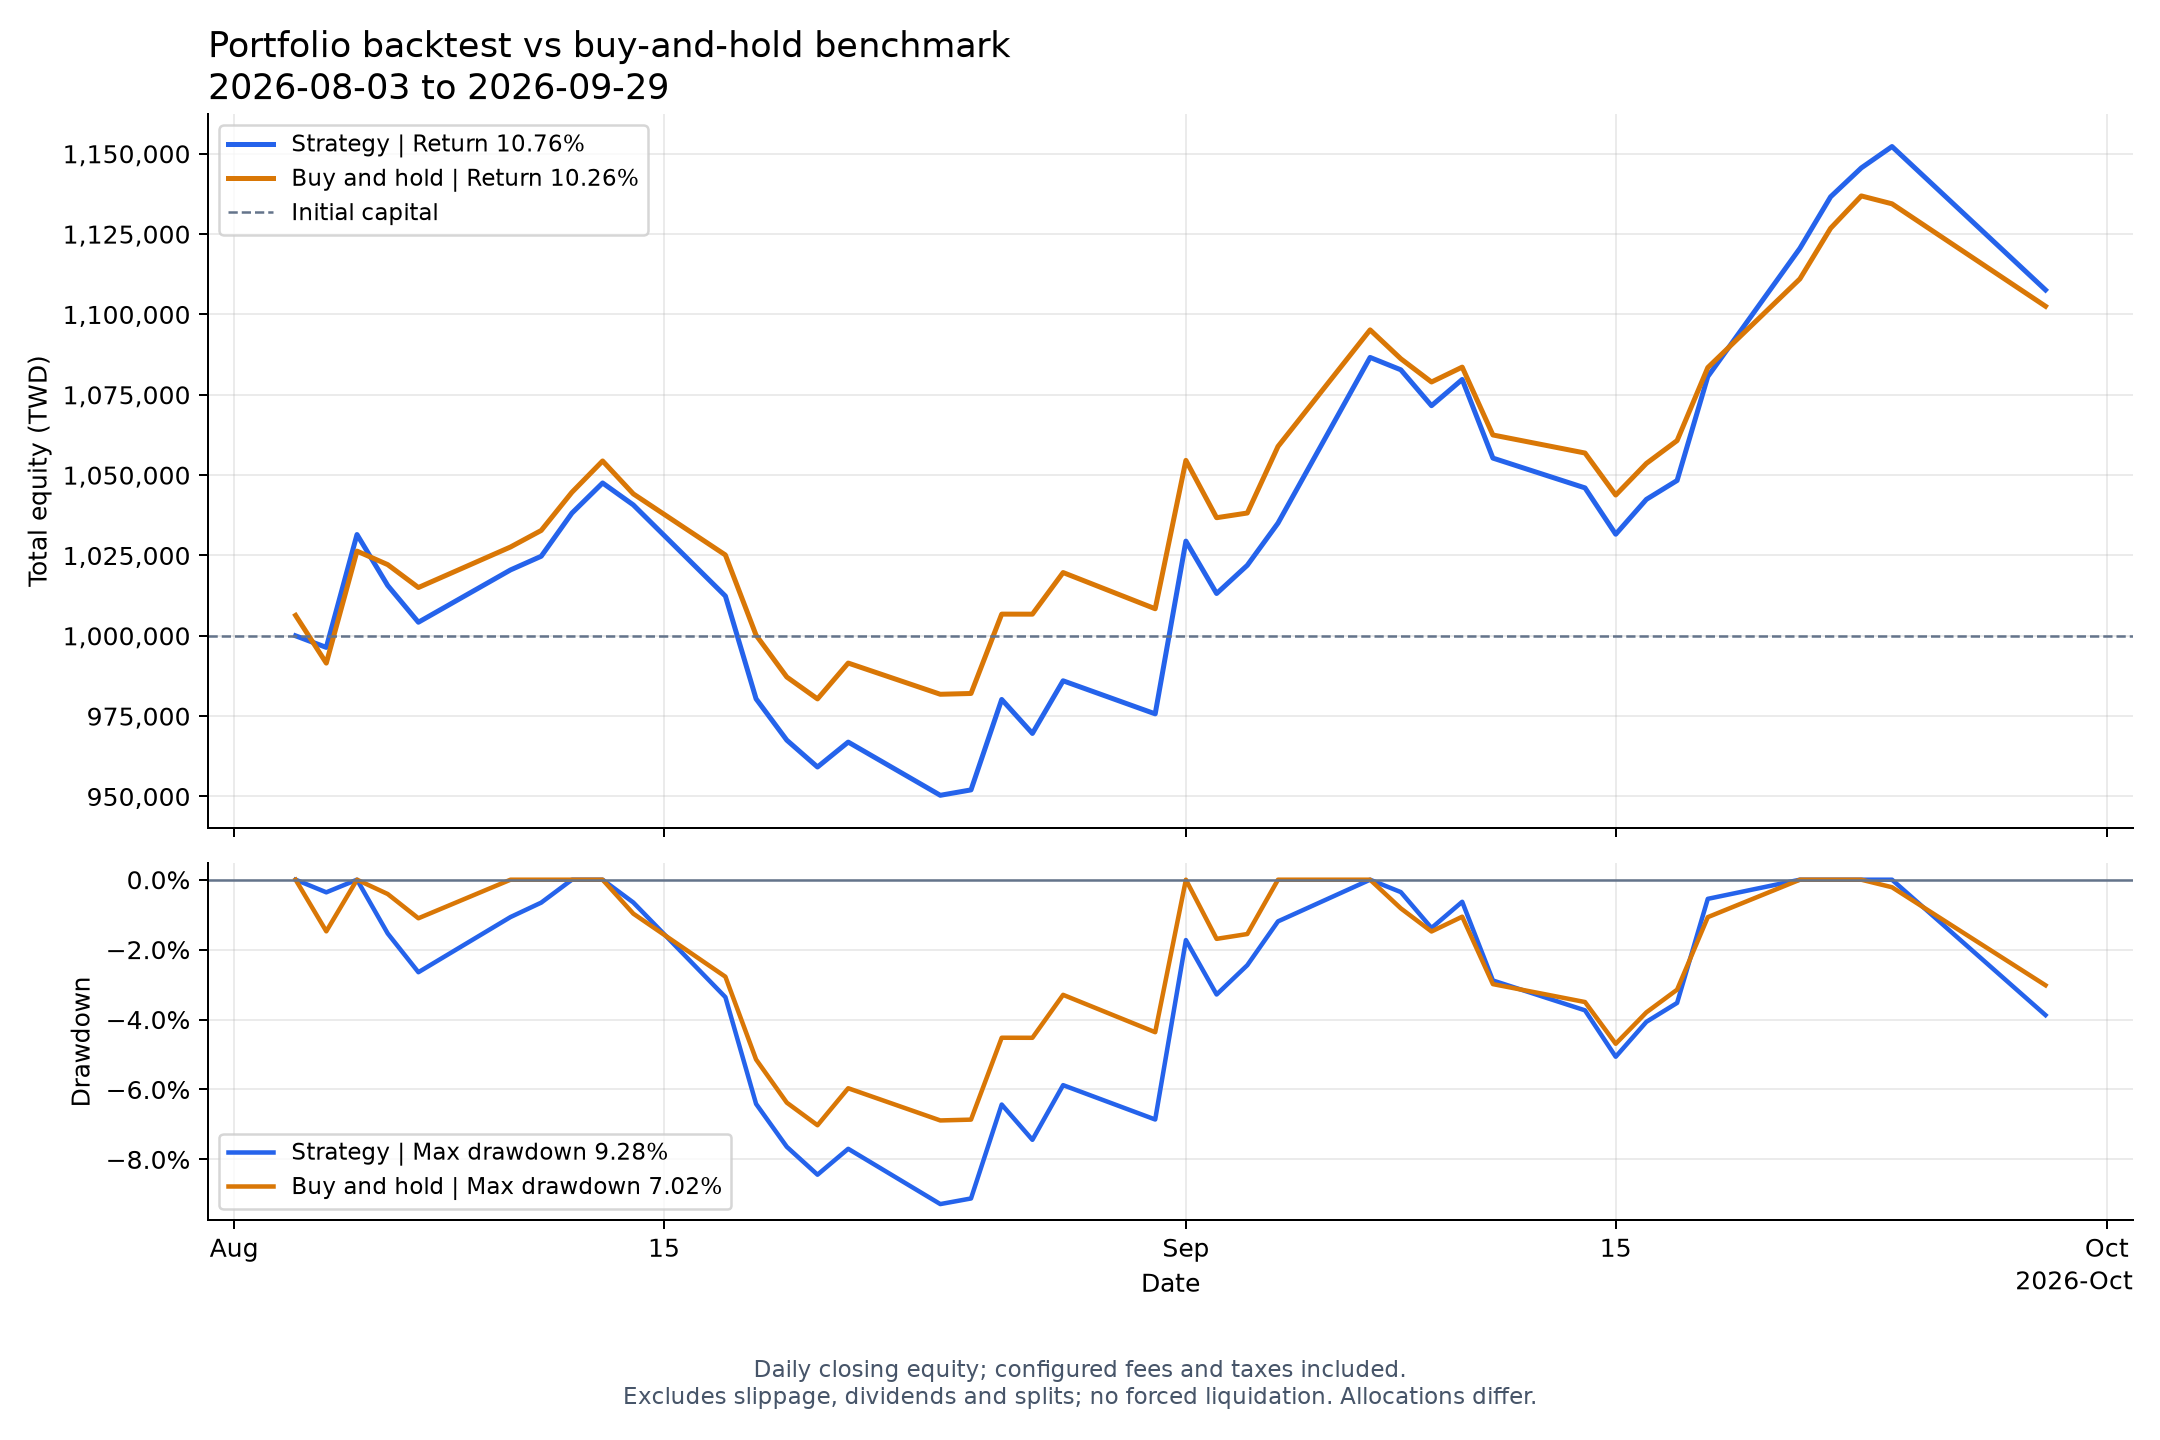
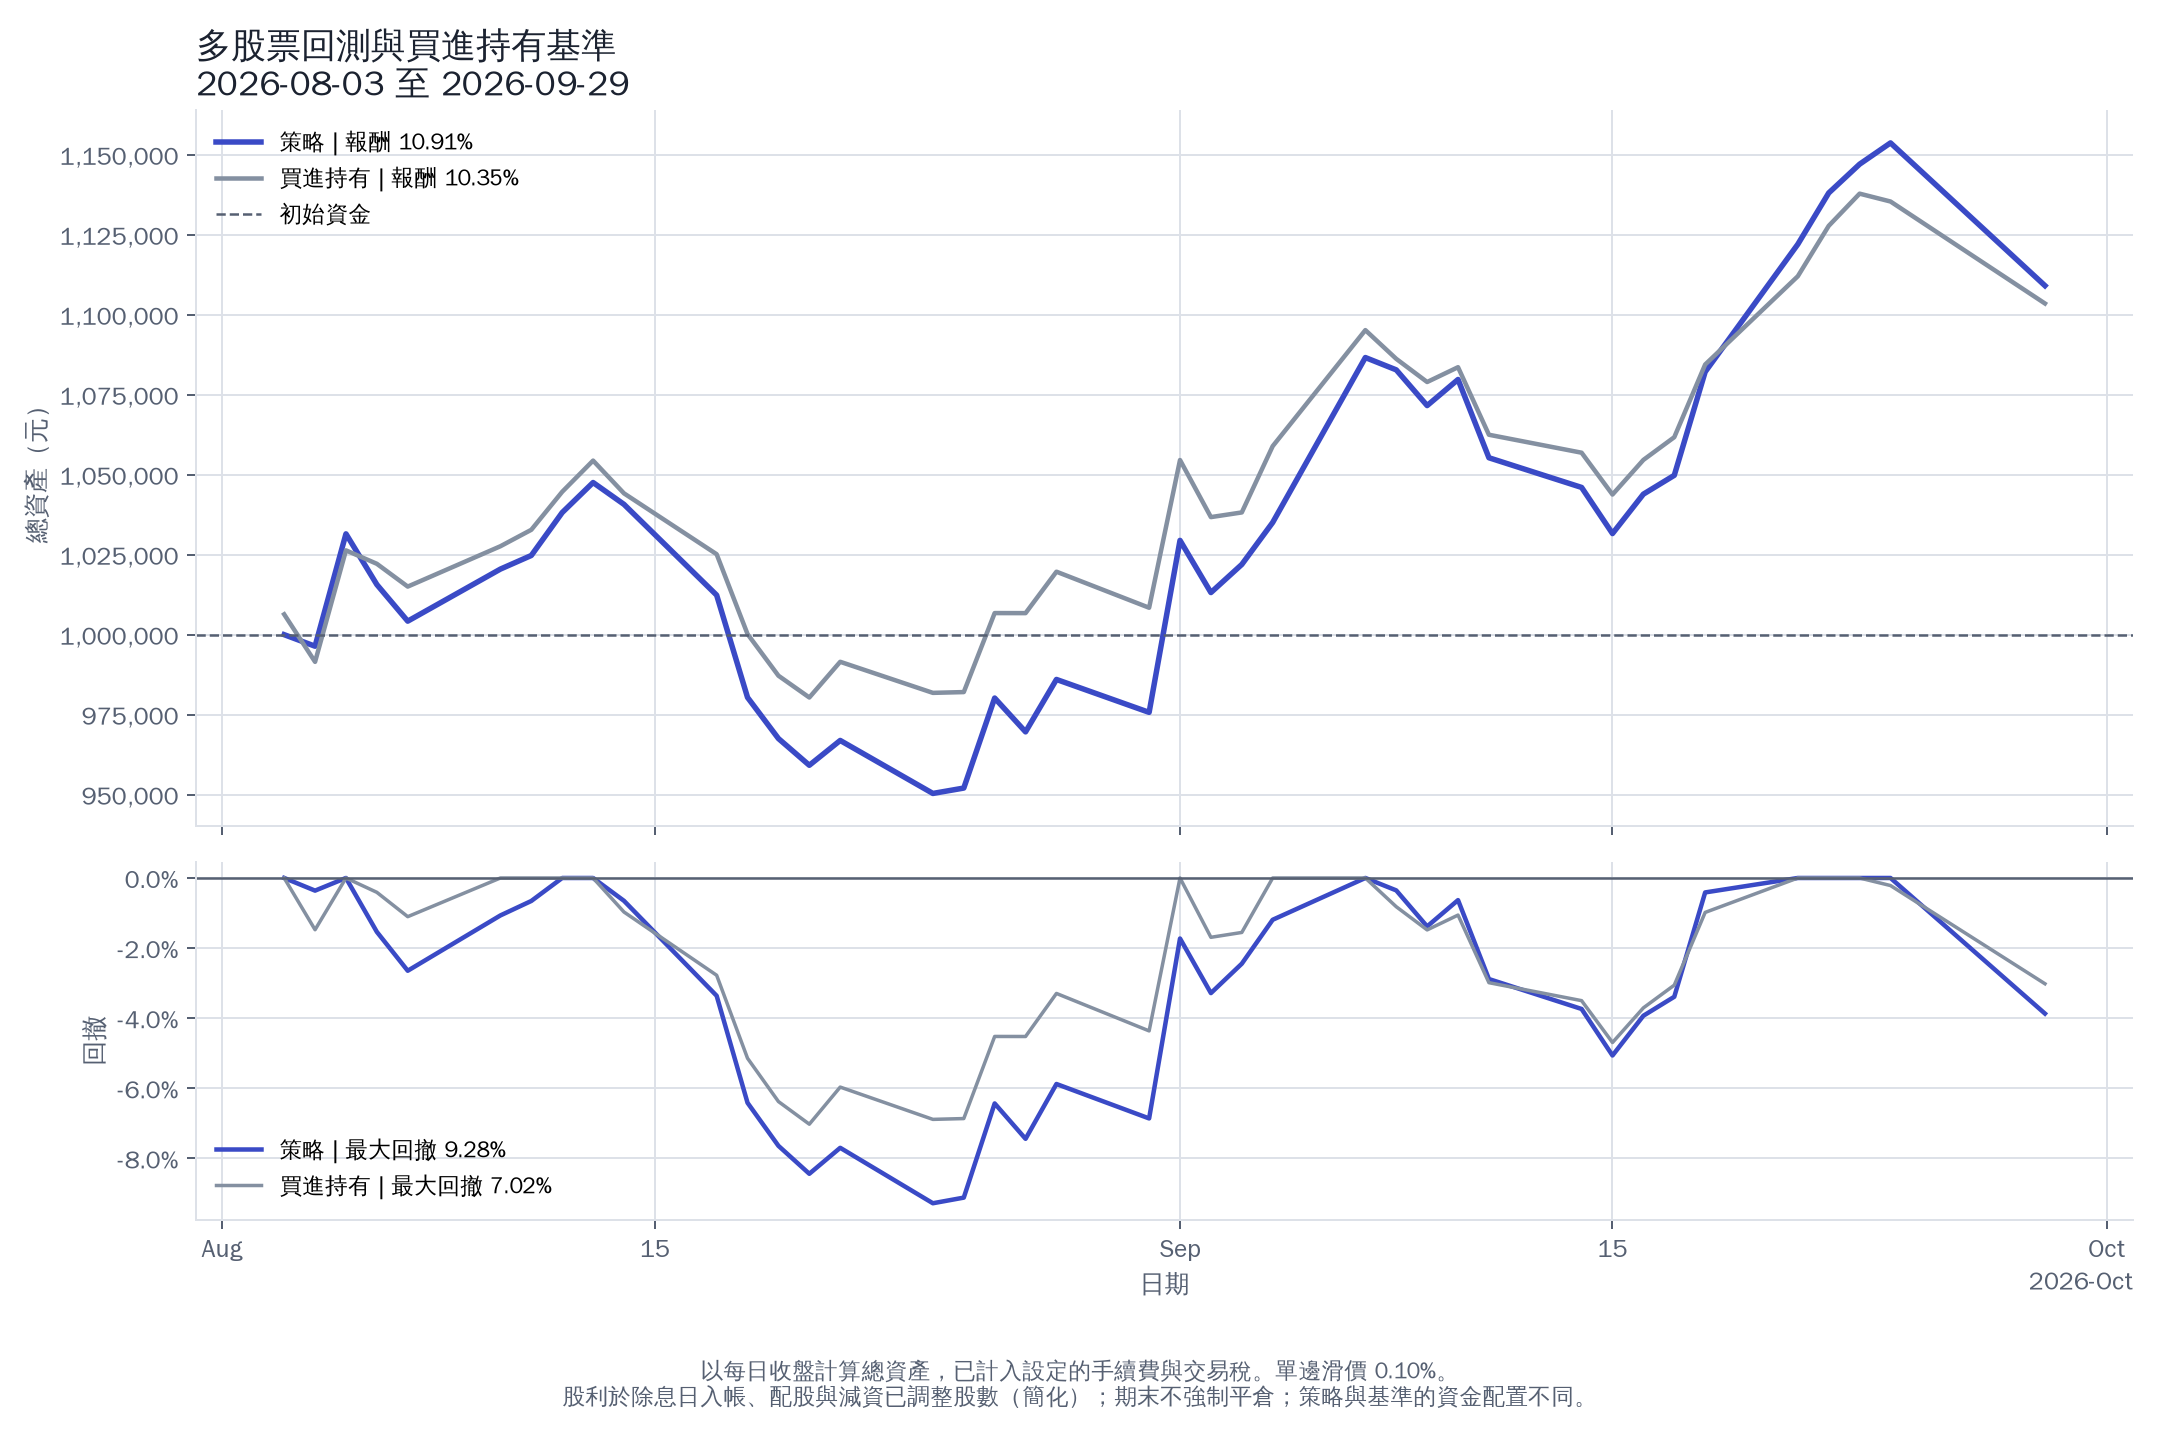
docs: regenerate the demo backtest chart with adjusted prices
The chart in DEMO.md was made on 2026-09-30 by an older plot_report
with original prices; its English footnote still said dividends and
splits were excluded. It is regenerated with the current version in
adjusted mode for the same period and settings: 2026-08-01 to
2026-09-29 (40 trading days), 2330, 2317 and 2454, factor ranking from
config.toml, fixed budget and 0.1% slippage. The run used a copy of the
price database holding only 2026 prices and corporate actions, so
warm-up never read earlier data.

DEMO.md now states the period, the strategy, the price basis (adjusted,
rights offerings refused; the 2330 dividend on 2026-09-16 is credited
to both the strategy and buy and hold) and the main assumptions, with
the commands that produce the chart.

The rehearsal material (ranking.txt, factors.txt, REHEARSAL.md) is
still the 2026-09-30 snapshot with original prices and is left as is.

diff --git a/docs/DEMO.md b/docs/DEMO.md
@@ -111,6 +111,19 @@
 
 這張圖由 `plot_report` 從一次回測的匯出報表產生，使用的是實際行情，和上面的合成資料無關。它用來說明報表的樣子，不代表策略表現。產生方式見 [策略、公式與回測](OPERATIONS.md#策略公式與回測)。
 
+- **期間**：指定 2026-08-01～2026-09-29，實際回測 2026-08-03～2026-09-29，共 40 個行情日；不含 2025 年。這張圖是用只保留 2026 年行情與公司行動的資料庫複本產生，指標暖機只用到 2026-01-02 起的行情；直接以完整的行情庫執行下面的指令時，暖機會讀到更早的資料。
+- **策略**：股票池 2330、2317、2454；根目錄 `config.toml` 的多因子排名（`--ranking factors`：動能 20 日、均線 5／20 日、波動 20 日，三項等權重），保留候選 3 檔、持股上限 2 檔。
+- **價格口徑**：還原價（`adjusted`，含現金增資的除權為 `refuse`）。訊號用截至分析日的還原價，成交與估值用原始價格；期間內 2330 於 2026-09-16 除息，策略持股在生效日入帳現金股利（簡化：不扣股利所得稅與補充保費，實際發放日通常較晚），買進持有基準套用同樣的規則。
+- **主要假設**：初始資金 100 萬元，固定預算配置（每檔上限 50 萬元，含手續費）；以當日收盤產生訊號、下一個行情日開盤成交；手續費 0.1425%（最低 20 元）、賣出證交稅 0.3%、單邊不利滑價 0.1%；期末不強制賣出，以收盤估值。買進持有基準在第一個可交易日以等預算買進三檔。
+
+```bash
+.venv/bin/python -m tw_stock_backtest.cli.run_portfolio \
+  --config config.toml --stocks 2330 2317 2454 \
+  --start 2026-08-01 --end 2026-09-29 --ranking factors \
+  --sizing fixed_budget --slippage 0.001 --export --output-dir reports/backtests
+.venv/bin/python -m tw_stock_backtest.cli.plot_report --report-dir <輸出的報表目錄>
+```
+
 ## 改用自己的資料
 
 如果已經依 [真實資料準備](OPERATIONS.md#真實資料準備) 下載過行情，可以沿用根目錄的 `config.toml`，另外指定空的 state 與報表目錄：
